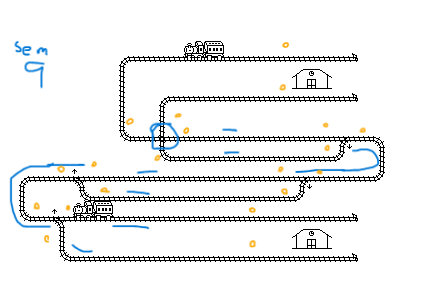
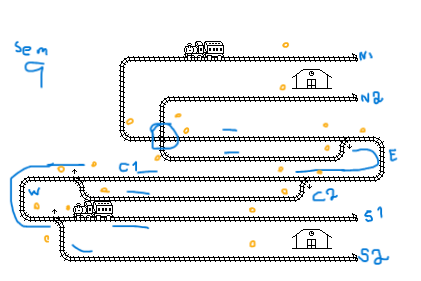
Added some general structure and labeled track sections on image

diff --git a/src/Lab1.java b/src/Lab1.java
@@ -8,33 +8,66 @@ public class Lab1 {
   public Lab1(int speed1, int speed2) {
     TSimInterface tsi = TSimInterface.getInstance();
 
-    trainHandler train1 = new trainHandler(tsi, 1, speed1);
-    trainHandler train2 = new trainHandler(tsi, 2, speed2);
-    
-    Semaphore[] sems = new Semaphore[9];
+    /* public */ TrainHandler train1 = new TrainHandler(tsi, 1, speed1, Section.North1);
+    /* public */ TrainHandler train2 = new TrainHandler(tsi, 2, speed2, Section.South1);
+    Thread t1 = new Thread(train1);
+    Thread t2 = new Thread(train2);
+
+    t1.run();
+    t2.run();
 
   }
 
-  private class trainHandler {
-    private static final int MAXSPEED = 30;
+  private class TrainHandler implements Runnable{
+    private static final int MAXSPEED = 30; // TODO: find actual max
 
     private final TSimInterface tsi;
     private final int id;
-  
+    private int currentSpeed;
+    private Section currentTrack;
 
-    trainHandler(TSimInterface tsi, int id, int initSpeed) {
+    TrainHandler(TSimInterface tsi, int id, int initSpeed, Section startSec) {
       this.tsi = tsi;
       this.id = id;
-      setSpeed(initSpeed);
+      this.currentSpeed = initSpeed;
+      this.currentTrack = startSec;
     }
 
     void setSpeed(int speed) {
+      currentSpeed = Math.clamp(speed, -MAXSPEED, MAXSPEED);
       try {
-        this.tsi.setSpeed(this.id, Math.clamp(speed, -MAXSPEED, MAXSPEED) );
+        this.tsi.setSpeed(this.id, this.currentSpeed);
       } catch (CommandException e) {
         e.printStackTrace(); // or only e.getMessage() for the error
         System.exit(1);
       }
     }
+
+    @Override
+    public void run() {
+        setSpeed(this.currentSpeed);
+    }
+  }
+
+  private class TrackSec {
+    private final Semaphore sem;
+    private final Section sec; 
+
+    TrackSec(Section sec) {
+      this.sem = new Semaphore(1);
+      this.sec = sec;
+    }
+  }
+
+  private enum Section {
+    North1, North2,
+    East,
+    Center1, Center2,
+    West,
+    South1, South2
+  }
+
+  private enum Heading {
+    North, South
   }
 }
